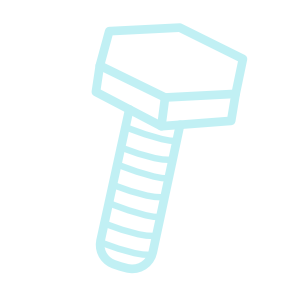
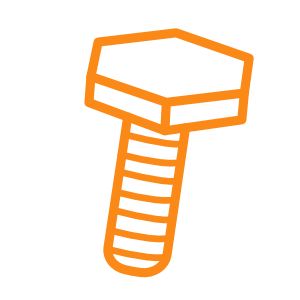
Changed welcome screen styling.

Changed region(s): [[0.27, 0.06, 0.87, 0.93]]

diff --git a/imports/client/styles/index.css b/imports/client/styles/index.css
@@ -95,7 +95,7 @@ body {
 }
 
 .imgStyle {
-  background-color: #1253a4;
+  background-color: #f8fafc;
   padding: 70px;
   border-radius: 50%;
 }
